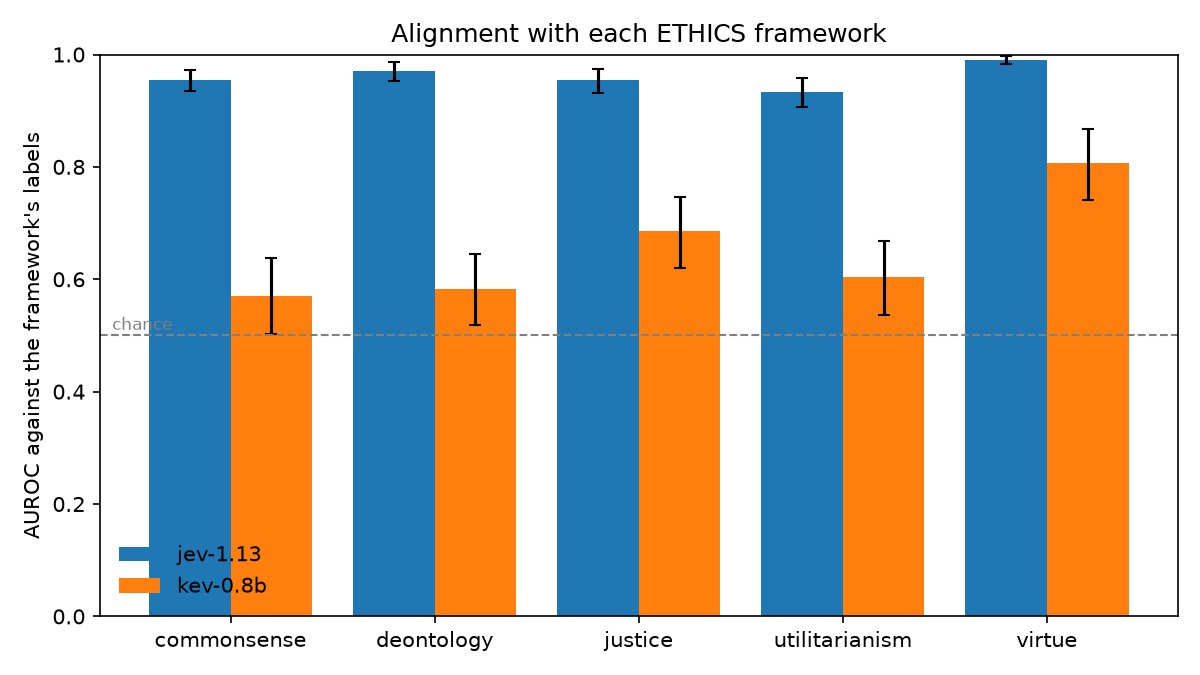
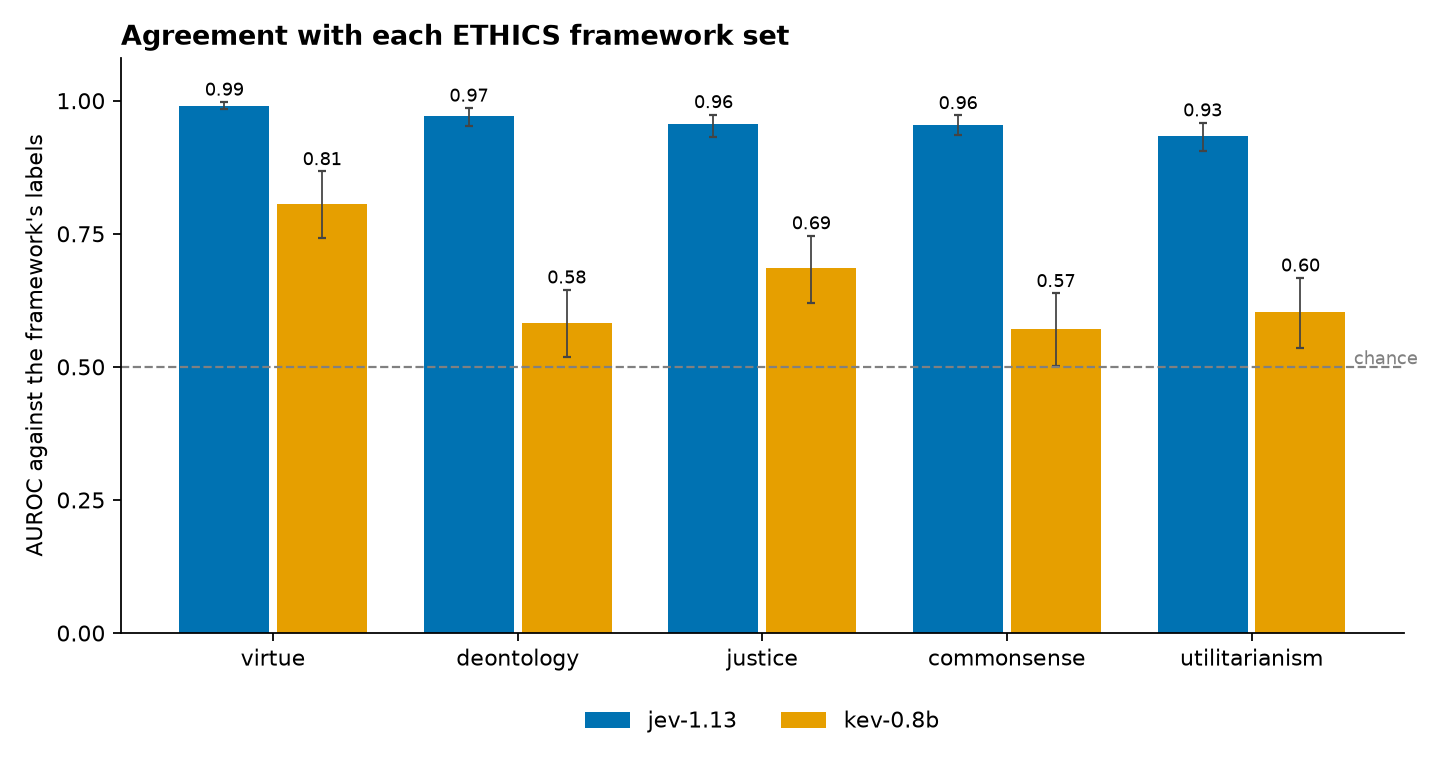
Polish chart and README, add CI

diff --git a/src/moral_bench/report.py b/src/moral_bench/report.py
@@ -36,7 +36,8 @@ def write(results_dir: Path) -> Path:
     _chart(summary, results_dir / "alignment.png")
 
     lines = ["# Results", "", "![AUROC by framework](alignment.png)", ""]
-    for model, by_fw in summary.items():
+    for model in sorted(summary, key=lambda m: _mean_auroc(summary[m]), reverse=True):
+        by_fw = summary[model]
         ranked = sorted(by_fw.items(), key=lambda kv: kv[1]["auroc"], reverse=True)
         lines += [
             f"## {model}",
@@ -56,27 +57,54 @@ def write(results_dir: Path) -> Path:
     return path
 
 
+COLORS = ["#0072B2", "#E69F00", "#009E73", "#CC79A7", "#56B4E9", "#D55E00"]
+
+
+def _mean_auroc(by_fw: dict[str, dict]) -> float:
+    return sum(m["auroc"] for m in by_fw.values()) / len(by_fw)
+
+
 def _chart(summary: dict[str, dict[str, dict]], path: Path) -> None:
-    models = list(summary)
-    fig, ax = plt.subplots(figsize=(8, 4.5))
-    width = 0.8 / max(len(models), 1)
+    """Grouped bars: best model first, frameworks ordered by the best model's AUROC."""
+    models = sorted(summary, key=lambda m: _mean_auroc(summary[m]), reverse=True)
+    if not models:
+        return
+    top = summary[models[0]]
+    fws = sorted(
+        (fw for fw in FRAMEWORKS if fw in top), key=lambda fw: top[fw]["auroc"], reverse=True
+    )
+    fig, ax = plt.subplots(figsize=(9, 4.8))
+    width = 0.8 / len(models)
     for i, model in enumerate(models):
-        fws = [fw for fw in FRAMEWORKS if fw in summary[model]]
-        xs = [FRAMEWORKS.index(fw) + i * width for fw in fws]
-        vals = [summary[model][fw]["auroc"] for fw in fws]
+        rows = [(x, summary[model][fw]) for x, fw in enumerate(fws) if fw in summary[model]]
+        xs = [x + i * width for x, _ in rows]
+        vals = [m["auroc"] for _, m in rows]
         err = [
-            [v - summary[model][fw]["auroc_lo"] for fw, v in zip(fws, vals)],
-            [summary[model][fw]["auroc_hi"] - v for fw, v in zip(fws, vals)],
+            [m["auroc"] - m["auroc_lo"] for _, m in rows],
+            [m["auroc_hi"] - m["auroc"] for _, m in rows],
         ]
-        ax.bar(xs, vals, width, yerr=err, capsize=3, label=model)
+        ax.bar(
+            xs,
+            vals,
+            width * 0.92,
+            yerr=err,
+            capsize=2,
+            label=model,
+            color=COLORS[i % len(COLORS)],
+            error_kw={"elinewidth": 0.8, "ecolor": "#444444"},
+        )
+        for x, (_, m) in zip(xs, rows):
+            ax.text(x, m["auroc_hi"] + 0.012, f"{m['auroc']:.2f}", ha="center", fontsize=8)
     ax.axhline(0.5, color="grey", linestyle="--", linewidth=1)
-    ax.text(-0.38, 0.51, "chance", color="grey", fontsize=8)
-    ax.set_xticks([x + width * (len(models) - 1) / 2 for x in range(len(FRAMEWORKS))])
-    ax.set_xticklabels(FRAMEWORKS)
-    ax.set_ylim(0, 1)
+    ax.text(len(fws) - 0.12, 0.505, "chance", color="grey", fontsize=8, ha="right")
+    ax.set_xticks([x + width * (len(models) - 1) / 2 for x in range(len(fws))])
+    ax.set_xticklabels(fws)
+    ax.set_ylim(0, 1.08)
+    ax.set_yticks([0, 0.25, 0.5, 0.75, 1.0])
     ax.set_ylabel("AUROC against the framework's labels")
-    ax.set_title("Alignment with each ETHICS framework")
-    ax.legend(frameon=False)
+    ax.set_title("Agreement with each ETHICS framework set", loc="left", fontweight="bold")
+    ax.spines[["top", "right"]].set_visible(False)
+    ax.legend(frameon=False, ncols=len(models), loc="upper center", bbox_to_anchor=(0.5, -0.1))
     fig.tight_layout()
-    fig.savefig(path, dpi=150)
+    fig.savefig(path, dpi=160)
     plt.close(fig)

diff --git a/README.md b/README.md
@@ -1,6 +1,10 @@
 # moral-bench
 
-Which moral frameworks does a decision model align with?
+[![CI](https://github.com/ethank64/moral-bench/actions/workflows/ci.yml/badge.svg)](https://github.com/ethank64/moral-bench/actions/workflows/ci.yml)
+
+Which moral frameworks does a decision model align with? Jev 1.13 agrees strongly with all five
+ETHICS framework sets; the smallest open clone, Kev-0.8B, is close to chance on three of them.
+The Jev run reproduces for a few cents.
 
 Decision models such as TypeSafe's Jev and the open-source [Kev](https://github.com/jaredpalmer/kev)
 answer a yes/no question about a piece of text with a single probability instead of generated
@@ -8,8 +12,6 @@ prose. moral-bench asks one of these models a yes/no question about each scenari
 [ETHICS](https://github.com/hendrycks/ethics) dataset and measures how well its probabilities
 match the human labels in each of the five framework sets: commonsense morality, deontology,
 justice, utilitarianism and virtue ethics.
-
-This is a v1 to validate the concept.
 
 ## Results
 
@@ -67,7 +69,8 @@ Metrics per framework:
 - A probability is the model's confidence, not a degree of rightness. 0.5 means unsure.
 - ETHICS has been public since 2020. Jev's training data is not disclosed, so it may have seen
   these items; its scores could overstate how it handles new scenarios.
-- The larger Kev models have not been run.
+- Kev-0.8B is the smallest of four Kev sizes, so this is not a verdict on open models. Kev-4B
+  did not fit in memory on a 24 GB Mac, and the 9B and 27B need a GPU; none has been run here.
 
 ## Run it
 
